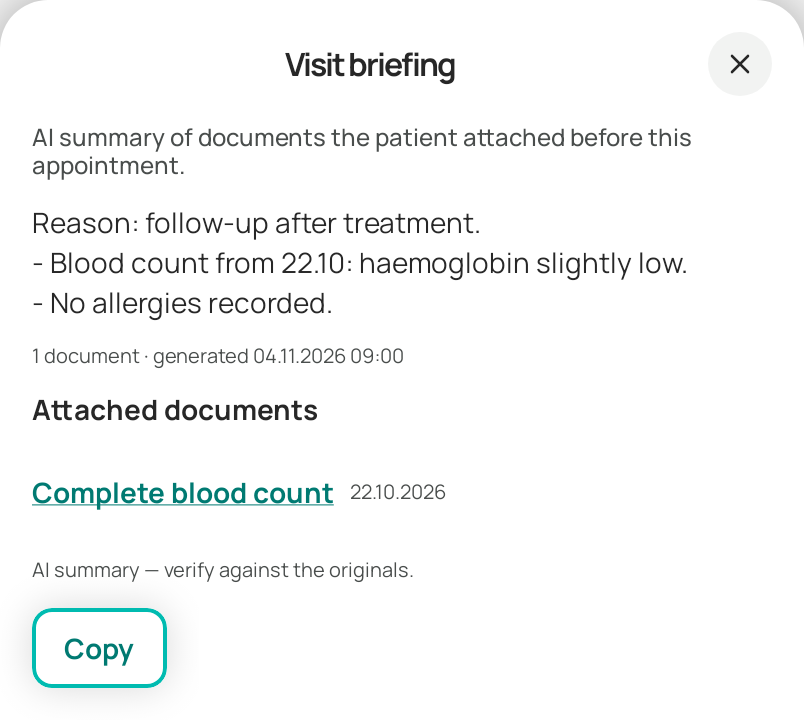
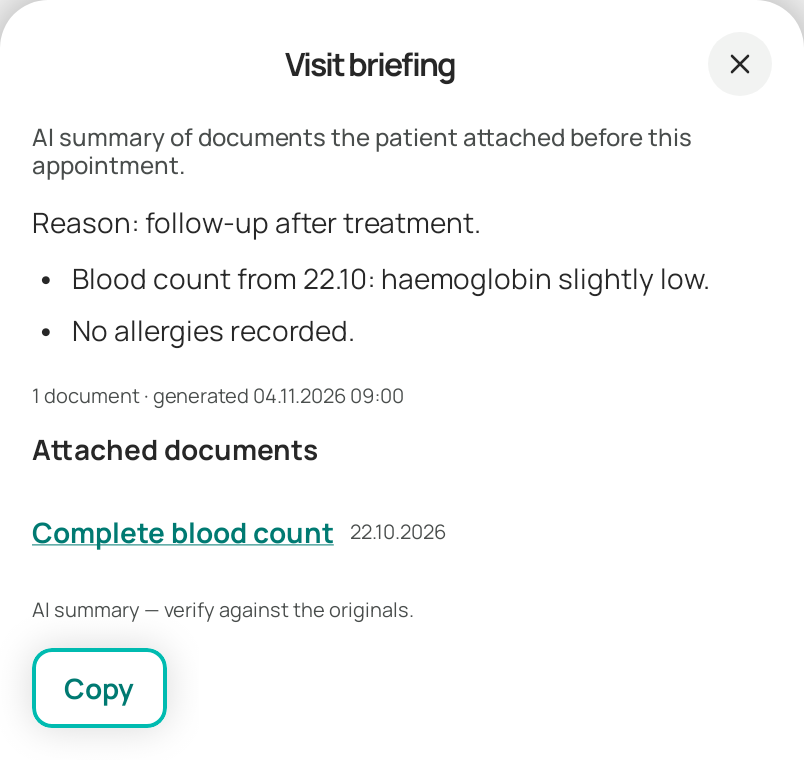
feat(ai): add the ai text renderer and use it for the visit briefing
AI answers and briefings come as a small markdown subset (headings,
bullets, bold). Flutter's AiResponseText is ported with its tests:
headings get the brand bar, a long single paragraph is split into
sentences, and the text is selectable. Whitespace matches Dart's, so
a no-break space after "##" or "-" still makes a heading or bullet.

The visit briefing sheet showed that text plain, with the markers
dropped. It now renders it.

diff --git a/composeApp/src/commonMain/kotlin/shifa/doctor/ui/widgets/AiResponseText.kt b/composeApp/src/commonMain/kotlin/shifa/doctor/ui/widgets/AiResponseText.kt
@@ -1,0 +1,129 @@
+package shifa.doctor.ui.widgets
+
+import androidx.compose.foundation.background
+import androidx.compose.foundation.layout.Arrangement
+import androidx.compose.foundation.layout.Box
+import androidx.compose.foundation.layout.Column
+import androidx.compose.foundation.layout.IntrinsicSize
+import androidx.compose.foundation.layout.Row
+import androidx.compose.foundation.layout.fillMaxHeight
+import androidx.compose.foundation.layout.height
+import androidx.compose.foundation.layout.padding
+import androidx.compose.foundation.layout.width
+import androidx.compose.foundation.text.selection.SelectionContainer
+import androidx.compose.material3.Text
+import androidx.compose.runtime.Composable
+import androidx.compose.runtime.remember
+import androidx.compose.ui.Modifier
+import androidx.compose.ui.graphics.Color
+import androidx.compose.ui.text.AnnotatedString
+import androidx.compose.ui.text.SpanStyle
+import androidx.compose.ui.text.TextStyle
+import androidx.compose.ui.text.buildAnnotatedString
+import androidx.compose.ui.text.font.FontWeight
+import androidx.compose.ui.text.withStyle
+import shifa.doctor.ui.theme.ShifaColors
+import shifa.doctor.ui.theme.ShifaSize
+import shifa.doctor.ui.theme.ShifaTextStyles
+
+internal enum class AiBlockKind { Heading, Bullet, Paragraph, Spacer }
+
+internal data class AiBlock(
+    val kind: AiBlockKind,
+    val text: String = "",
+)
+
+/**
+ * An AI answer as the doctor reads it (AI-02, Flutter's `AiResponseText`): the small markdown subset the backend
+ * writes, `#`–`###` and whole-line `**…**` headings (bold, brand, a brand bar on the left), `-` / `*` / `•` / `1.`
+ * bullets, `**bold**` inside lines, and one gap per run of blank lines. A single 220+ character paragraph is split into
+ * sentences. Selectable for copying. Text-only by design: the boards show answers as plain 14/22 text.
+ */
+@Composable
+fun AiResponseText(
+    text: String,
+    modifier: Modifier = Modifier,
+    style: TextStyle = ShifaTextStyles.aiText(),
+    color: Color = ShifaColors.Text.Primary,
+) {
+    val blocks = remember(text) { parseBlocks(formatForDisplay(text)) }
+    if (blocks.isEmpty()) return
+    SelectionContainer(modifier) {
+        Column {
+            blocks.forEach { b ->
+                when (b.kind) {
+                    AiBlockKind.Spacer -> Box(Modifier.height(ShifaSize.S10))
+                    AiBlockKind.Heading ->
+                        Row(Modifier.padding(top = ShifaSize.S12, bottom = ShifaSize.S8).height(IntrinsicSize.Min)) {
+                            Box(Modifier.width(ShifaSize.S3).fillMaxHeight().background(ShifaColors.Border.Brand))
+                            Text(
+                                b.text,
+                                Modifier.padding(start = ShifaSize.S8),
+                                style = ShifaTextStyles.panelTitle(),
+                                color = ShifaColors.Text.BrandStrong,
+                            )
+                        }
+                    AiBlockKind.Bullet ->
+                        Row(
+                            Modifier.padding(start = ShifaSize.S2, bottom = ShifaSize.S6),
+                            horizontalArrangement = Arrangement.spacedBy(ShifaSize.S8),
+                        ) {
+                            Text("•", style = style.copy(fontWeight = FontWeight.Bold), color = color)
+                            Text(boldSpans(b.text), Modifier.weight(1f), style = style, color = color)
+                        }
+                    AiBlockKind.Paragraph ->
+                        Text(boldSpans(b.text), Modifier.padding(bottom = ShifaSize.S8), style = style, color = color)
+                }
+            }
+        }
+    }
+}
+
+/** Line endings normalised; one long single-line answer (> 220 chars, 3+ sentences) becomes a paragraph per sentence. */
+internal fun formatForDisplay(value: String): String {
+    val text = value.replace("\r\n", "\n").replace('\r', '\n').trimEnd()
+    if (text.contains('\n') || text.length <= 220) return text
+    val sentences = text.split(SENTENCE_END)
+    return if (sentences.size >= 3) sentences.joinToString("\n\n") else text
+}
+
+internal fun parseBlocks(text: String): List<AiBlock> {
+    val blocks = mutableListOf<AiBlock>()
+    for (raw in text.split('\n')) {
+        val line = raw.trim()
+        if (line.isEmpty()) {
+            if (blocks.isNotEmpty() && blocks.last().kind != AiBlockKind.Spacer) blocks += AiBlock(AiBlockKind.Spacer)
+            continue
+        }
+        val heading = HEADING.matchEntire(line) ?: WRAPPED_HEADING.matchEntire(line)
+        val bullet = BULLET.matchEntire(line)
+        blocks +=
+            when {
+                heading != null -> AiBlock(AiBlockKind.Heading, heading.groupValues[1].trim())
+                bullet != null -> AiBlock(AiBlockKind.Bullet, bullet.groupValues[2])
+                else -> AiBlock(AiBlockKind.Paragraph, line)
+            }
+    }
+    return blocks
+}
+
+/** `**…**` runs in bold (non-greedy, as Flutter); unmatched markers stay as typed. */
+internal fun boldSpans(text: String): AnnotatedString =
+    buildAnnotatedString {
+        var cursor = 0
+        BOLD.findAll(text).forEach { m ->
+            append(text.substring(cursor, m.range.first))
+            withStyle(SpanStyle(fontWeight = FontWeight.Bold)) { append(m.groupValues[1]) }
+            cursor = m.range.last + 1
+        }
+        append(text.substring(cursor))
+    }
+
+// Dart's (ECMAScript) `\s`: Kotlin's is ASCII-only on both platforms, so a no-break space after "##" or "-" (models
+// write them) would turn a heading or bullet into a plain line.
+private const val WS = "[\\s\u00A0\u1680\u2000-\u200A\u2028\u2029\u202F\u205F\u3000\uFEFF]"
+private val SENTENCE_END = Regex("(?<=[.!?])$WS+")
+private val HEADING = Regex("#{1,3}$WS+(.+)")
+private val WRAPPED_HEADING = Regex("\\*\\*([^*]+)\\*\\*")
+private val BULLET = Regex("([-*•]|\\d+\\.)$WS+(.*)")
+private val BOLD = Regex("\\*\\*(.+?)\\*\\*")

diff --git a/composeApp/src/androidUnitTest/kotlin/shifa/doctor/ui/widgets/AiResponseTextTest.kt b/composeApp/src/androidUnitTest/kotlin/shifa/doctor/ui/widgets/AiResponseTextTest.kt
@@ -1,0 +1,73 @@
+package shifa.doctor.ui.widgets
+
+import androidx.compose.ui.text.font.FontWeight
+import com.google.common.truth.Truth.assertThat
+import org.junit.Test
+
+// Flutter's test/ai_response_text_test.dart, plus the cases its widget relies on.
+class AiResponseTextTest {
+    @Test
+    fun `headings, bullets and leftover paragraphs`() {
+        val raw =
+            """
+            ## Snapshot
+            Adult with recurrent caries.
+
+            ## Video consultations
+            - Pain on **14**, plan restoration
+            - Follow-up in **1 week**
+            """.trimIndent()
+        val blocks = parseBlocks(raw)
+        assertThat(blocks.filter { it.kind == AiBlockKind.Heading }.map { it.text })
+            .containsExactly("Snapshot", "Video consultations")
+            .inOrder()
+        assertThat(blocks.count { it.kind == AiBlockKind.Bullet }).isEqualTo(2)
+        assertThat(blocks.single { it.kind == AiBlockKind.Paragraph }.text).isEqualTo("Adult with recurrent caries.")
+    }
+
+    @Test
+    fun `marked phrases are bold, unmatched markers stay`() {
+        val spans = boldSpans("Caries on **14** and **15**.")
+        assertThat(spans.text).isEqualTo("Caries on 14 and 15.")
+        assertThat(
+            spans.spanStyles.map { spans.text.substring(it.start, it.end) },
+        ).containsExactly("14", "15").inOrder()
+        assertThat(spans.spanStyles.all { it.item.fontWeight == FontWeight.Bold }).isTrue()
+        assertThat(boldSpans("2 ** 3").text).isEqualTo("2 ** 3")
+    }
+
+    @Test
+    fun `a whole bold line is a heading, numbers and stars are bullets, blank runs make one gap`() {
+        val blocks = parseBlocks("**Plan**\n1. X-ray\n* Pulp test\n\n\n\nDone.\n\n")
+        assertThat(blocks.map { it.kind })
+            .containsExactly(
+                AiBlockKind.Heading,
+                AiBlockKind.Bullet,
+                AiBlockKind.Bullet,
+                AiBlockKind.Spacer,
+                AiBlockKind.Paragraph,
+                AiBlockKind.Spacer,
+            ).inOrder()
+        assertThat(blocks.take(3).map { it.text }).containsExactly("Plan", "X-ray", "Pulp test").inOrder()
+        // "**Reason:** follow-up" is not a heading: the bold run doesn't cover the line.
+        assertThat(parseBlocks("**Reason:** follow-up").single().kind).isEqualTo(AiBlockKind.Paragraph)
+        // A no-break space counts as Dart's \\s does.
+        assertThat(parseBlocks("##\u00A0Plan\n-\u00A0X-ray").map { it.kind })
+            .containsExactly(AiBlockKind.Heading, AiBlockKind.Bullet)
+            .inOrder()
+    }
+
+    @Test
+    fun `one long paragraph is split into sentences, a short or multi-line one is kept`() {
+        val long =
+            "The patient reports pain in the lower left molar for three days. " +
+                "Cold makes it worse and it wakes her at night! Is it pulpitis? " +
+                "An X-ray and a pulp test should settle it before any treatment is planned for the coming week."
+        assertThat(long.length).isGreaterThan(220)
+        assertThat(formatForDisplay(long).split("\n\n")).hasSize(4)
+        assertThat(formatForDisplay(long.replace(". ", ".\u00A0")).split("\n\n")).hasSize(4)
+        assertThat(formatForDisplay("Short. Answer. Here.")).isEqualTo("Short. Answer. Here.")
+        assertThat(formatForDisplay("a\r\nb\rc  ")).isEqualTo("a\nb\nc")
+        assertThat(parseBlocks(formatForDisplay("  \n "))).isEmpty()
+    }
+}

diff --git a/composeApp/src/commonMain/kotlin/shifa/doctor/ui/visit/Briefing.kt b/composeApp/src/commonMain/kotlin/shifa/doctor/ui/visit/Briefing.kt
@@ -6,7 +6,6 @@ import androidx.compose.foundation.layout.Row
 import androidx.compose.foundation.layout.fillMaxWidth
 import androidx.compose.foundation.layout.heightIn
 import androidx.compose.foundation.rememberScrollState
-import androidx.compose.foundation.text.selection.SelectionContainer
 import androidx.compose.foundation.verticalScroll
 import androidx.compose.material3.Text
 import androidx.compose.runtime.Composable
@@ -52,6 +51,7 @@ import shifa.doctor.ui.profile.ProfileSheet
 import shifa.doctor.ui.theme.ShifaColors
 import shifa.doctor.ui.theme.ShifaSize
 import shifa.doctor.ui.theme.ShifaTextStyles
+import shifa.doctor.ui.widgets.AiResponseText
 import shifa.doctor.ui.widgets.ShifaButtonSize
 import shifa.doctor.ui.widgets.ShifaLink
 import shifa.doctor.ui.widgets.ShifaSecondaryButton
@@ -211,15 +211,7 @@ internal fun BriefingTray(
                 }
             }
             BriefingStatus.Ready ->
-                SelectionContainer {
-                    // ponytail: the AI text's markdown subset shows as plain text (bold markers dropped) until the
-                    // shared AI text renderer lands with the Intelligence screens (M10).
-                    Text(
-                        b?.briefingText.orEmpty().replace("**", ""),
-                        style = ShifaTextStyles.bodyText(),
-                        color = ShifaColors.Text.Primary,
-                    )
-                }
+                AiResponseText(b?.briefingText.orEmpty(), style = ShifaTextStyles.bodyText())
             BriefingStatus.Failed ->
                 Text(
                     b?.error?.takeIf { !state.failed && it.isNotBlank() } ?: tr(Res.string.visitBriefingFailed),

diff --git a/composeApp/src/androidMain/kotlin/shifa/doctor/ui/widgets/DisplayPreviews.kt b/composeApp/src/androidMain/kotlin/shifa/doctor/ui/widgets/DisplayPreviews.kt
@@ -239,3 +239,19 @@ internal fun NavBarPreview() =
         ShifaNavBar(items, 0, {})
         ShifaNavBar(items, 3, {})
     }
+
+// AI-02: an AI answer's markdown subset: headings with the brand bar, bullets, bold, a split long paragraph.
+@Preview
+@Composable
+internal fun AiTextPreview() =
+    Gallery {
+        AiResponseText(
+            "## Snapshot\nAdult with recurrent caries, last visit on **22 October**.\n\n" +
+                "## Plan\n- Pain on **14**, plan restoration\n- Follow-up in **1 week**\n1. X-ray first",
+        )
+        AiResponseText(
+            "The patient reports pain in the lower left molar for three days. Cold makes it worse and it wakes " +
+                "her at night. Is it pulpitis? An X-ray and a pulp test should settle it before any treatment " +
+                "is planned for the coming week.",
+        )
+    }

diff --git a/composeApp/src/commonMain/kotlin/shifa/doctor/ui/theme/Typography.kt b/composeApp/src/commonMain/kotlin/shifa/doctor/ui/theme/Typography.kt
@@ -212,9 +212,13 @@ object ShifaTextStyles {
     @Composable
     fun navItem() = manrope(manropeFontFamily(), FontWeight.Medium, 14, 20)
 
-    // running text: notes, AI answers, legal pages
+    // running text: notes, legal pages
     @Composable
     fun bodyText() = manrope(manropeFontFamily(), FontWeight.Normal, 14, 20)
+
+    // DaIntel: an AI answer in the thread (14/22, pre-wrap)
+    @Composable
+    fun aiText() = manrope(manropeFontFamily(), FontWeight.Normal, 14, 22)
 }
 
 // The stylesheet's raw type scale (`--font-size-*`, `--line-height-*`, `--letter-spacing-*`), for the few places a

diff --git a/composeApp/src/androidUnitTest/kotlin/shifa/doctor/ui/widgets/DisplayScreenshotTest.kt b/composeApp/src/androidUnitTest/kotlin/shifa/doctor/ui/widgets/DisplayScreenshotTest.kt
@@ -38,4 +38,7 @@ class DisplayScreenshotTest {
 
     @Test
     fun nav_bar() = captureRoboImage("screenshots/Display_nav_bar.png") { NavBarPreview() }
+
+    @Test
+    fun ai_text() = captureRoboImage("screenshots/Display_ai_text.png") { AiTextPreview() }
 }

diff --git a/docs/implemented/README.md b/docs/implemented/README.md
@@ -130,6 +130,7 @@ Recorded so they are not re-litigated. IDs are from `17-master-plan.md` §3.
 | AI-05 Transcription | Done (no field yet) | `/ai/transcribe` multipart with the language hint and recording id, 90 s, typed 403 / 429 / 502, "(No speech detected)", reports and the public-config flag. See visits.md. |
 | AI-06 Speech text fields | Done | Mic in the visit's SOAP / free notes / focus mode and the 025-2 note fields (PRO), recording pill with live wave and time, transcript appended with a space, messages in the app's language, Report. See visits.md. |
 | AI-01 AI HTTP client | Done (no screen yet) | Both streams on the shared client (401 ends the session), the backend's exact SSE framing (verbatim `data:`, multi-line, EOF flush, typed `error` codes), tool cards, drafts, `conversationId`, 75 s per turn; speak (560-char cut, 25 s, audio type), patient briefing, visit facts / timeline / commit; demo AI answers locally. Fixed `streamEvents` sending a bare GET. See intelligence.md. |
+| AI-02 AI text renderer | Done | `AiResponseText` (ui/widgets): `#`–`###` and whole-line `**…**` headings with the brand bar, `-` / `*` / `•` / `1.` bullets, `**bold**`, one gap per blank run, a long single paragraph split into sentences, selectable; Flutter's tests ported. The visit briefing uses it. See intelligence.md. |
 | SCRIBE-01 AI scribe recording | Done (in-person; video with VIDEO-02) | Start AI Notes (PRO), recording pill, upload with the visit and language, awaiting-scribe flag for End, 429 / 403 messages, failed upload kept for another try; From Shifa AI reads again. See visits.md. |
 | PDF-01 Visit summary document | Done (made in the app; BE-01 pending) | A4 summary: header, patient and visit, clinical notes across pages, signatures, footer with page numbers; en/uz/ru labels; shared `PdfFlow` with the 025-2. Wired by APPT-07. See visits.md. |
 | APPT-07 End appointment (+ SCRIBE-02) | Done (no plan / payment steps yet) | Checklist sheet, then notes → complete → AI notes wait (3 s / 120 s, Continue without waiting) → summary PDF filed under the patient; failure before completion keeps the visit open, after it only the summary is retried. See visits.md. |
@@ -289,3 +290,4 @@ Recorded so they are not re-litigated. IDs are from `17-master-plan.md` §3.
 - 2026-11-05 · TASK-05 · Task templates; M9 done.
 - 2026-11-05 · HOME-04 · Home's attention centre and activity feed; M6 done.
 - 2026-11-05 · AI-01 · The Shifa AI client: streams, speech, briefing and visit facts.
+- 2026-11-05 · AI-02 · The AI text renderer; the visit briefing shows headings, bullets and bold.

diff --git a/docs/implemented/intelligence.md b/docs/implemented/intelligence.md
@@ -41,3 +41,22 @@ Built 2026-11-05. Spec 02 §3.2, §8, §9, ticket AI-01. Data only; INTEL-04, AI
   cancel closes the connection; speak type and cut; briefing; facts, timeline, commit), `SseTest` updated,
   `DemoBackendTest` (the demo AI end to end, nothing forwarded).
 - **Not checked on a phone:** there is no screen yet; the emulator check comes with INTEL-04.
+
+## AI-02 · AI text renderer
+
+Built 2026-11-05. Spec 02 §3.2 helpers, Flutter `core/widgets/ai_response_text.dart`, ticket AI-02. Board `DaIntel`
+(an answer is plain 14/22 text there; headings and bullets are not drawn on the boards, so their look follows
+Flutter's in the design's tokens: not in the design).
+
+- **Widget** (`ui/widgets/AiResponseText.kt`): `#`–`###` headings and a line that is only `**…**` → a heading
+  (`panelTitle`, `Text.BrandStrong`, a 3 dp `Border.Brand` bar on the left); `-`, `*`, `•` or `1.` → a bullet row
+  (numbers become a dot, as in Flutter); `**bold**` inside lines (non-greedy; a lone `**` stays as typed); a run of
+  blank lines → one 10 dp gap; anything else a paragraph. One line over 220 characters with 3+ sentences is split
+  into a paragraph per sentence. Whitespace in these patterns is Dart's (no-break spaces count; Kotlin's `\s` is
+  ASCII-only: Codex review). The whole answer is one `SelectionContainer`. Text style `aiText` (14/22, new in
+  `ShifaTextStyles`, from DaIntel); callers can pass another (the visit briefing keeps `bodyText`).
+- **Used by:** the visit briefing sheet (APPT-06), whose `ponytail:` plain-text stand-in is gone; next the
+  Intelligence thread (INTEL-04) and the patient briefing (AI-09).
+- **Tests:** `AiResponseTextTest` (Flutter's two tests plus wrapped headings, numbered and star bullets, blank runs,
+  `**Reason:** text` staying a paragraph, the sentence split and line endings); screenshots `Display_ai_text`,
+  `Briefing_ready` re-recorded.

diff --git a/docs/implemented/codex/AI-02.md b/docs/implemented/codex/AI-02.md
@@ -1,0 +1,8 @@
+- **[P2] Unicode whitespace breaks Flutter parity on iOS** — [AiResponseText.kt:122](/Users/sheroziy.saidkhodjaev/Projects/Private/shifa/web-flutter-doctor-app2/composeApp/src/commonMain/kotlin/shifa/doctor/ui/widgets/AiResponseText.kt:122), also lines 123 and 125. Kotlin/Native 2.3.0’s `\s` matches only ASCII whitespace; [Dart uses ECMAScript regex semantics](https://api.dart.dev/dart-core/RegExp-class.html), including nonbreaking spaces. Consequently, `##\u00A0Plan` and `-\u00A0Follow-up` become plain paragraphs on iOS, and a >220-character answer with three sentences separated by `.\u00A0` stays unsplit. Flutter recognizes all three cases. Use an explicit Dart-compatible whitespace class and add these regression cases.
+
+---
+
+- **[P2] Unicode whitespace parity:** fixed. The heading, bullet and sentence-split patterns use Dart's (ECMAScript)
+  `\s` set (ASCII whitespace plus U+00A0, U+1680, U+2000–U+200A, U+2028/9, U+202F, U+205F, U+3000, U+FEFF), written
+  as Kotlin escapes so both platforms get the characters themselves. Regression cases in `AiResponseTextTest`
+  (`##` + no-break space, `-` + no-break space, sentences split at `.` + no-break space). Small change, no second round.

diff --git a/docs/implemented/visits.md b/docs/implemented/visits.md
@@ -130,7 +130,7 @@ briefing" row) and the "briefing" overlay.
   · Retry". Home's button joins with HOME-03.
 - **Sheet** (`ui/visit/Briefing.kt`): the subtitle; then a 3-line skeleton, "Generating briefing from attached
   documents…" (with "Still generating — you can close this and check back." after a minute), the briefing text
-  (selectable; the markdown subset shows as plain text until the shared AI text renderer, `ponytail:`), the failed
+  (selectable; headings, bullets and bold through `AiResponseText` since AI-02), the failed
   text, or the empty text; the meta line "{n} documents · generated {date time}" (practice time zone, new); the
   **attached documents** (this visit's, from the patient's list, whatever the briefing's state; tap opens the viewer); "AI summary — verify against
   the originals."; Copy (ready); Retry briefing (failed or pending, not after the visit; one at a time).
